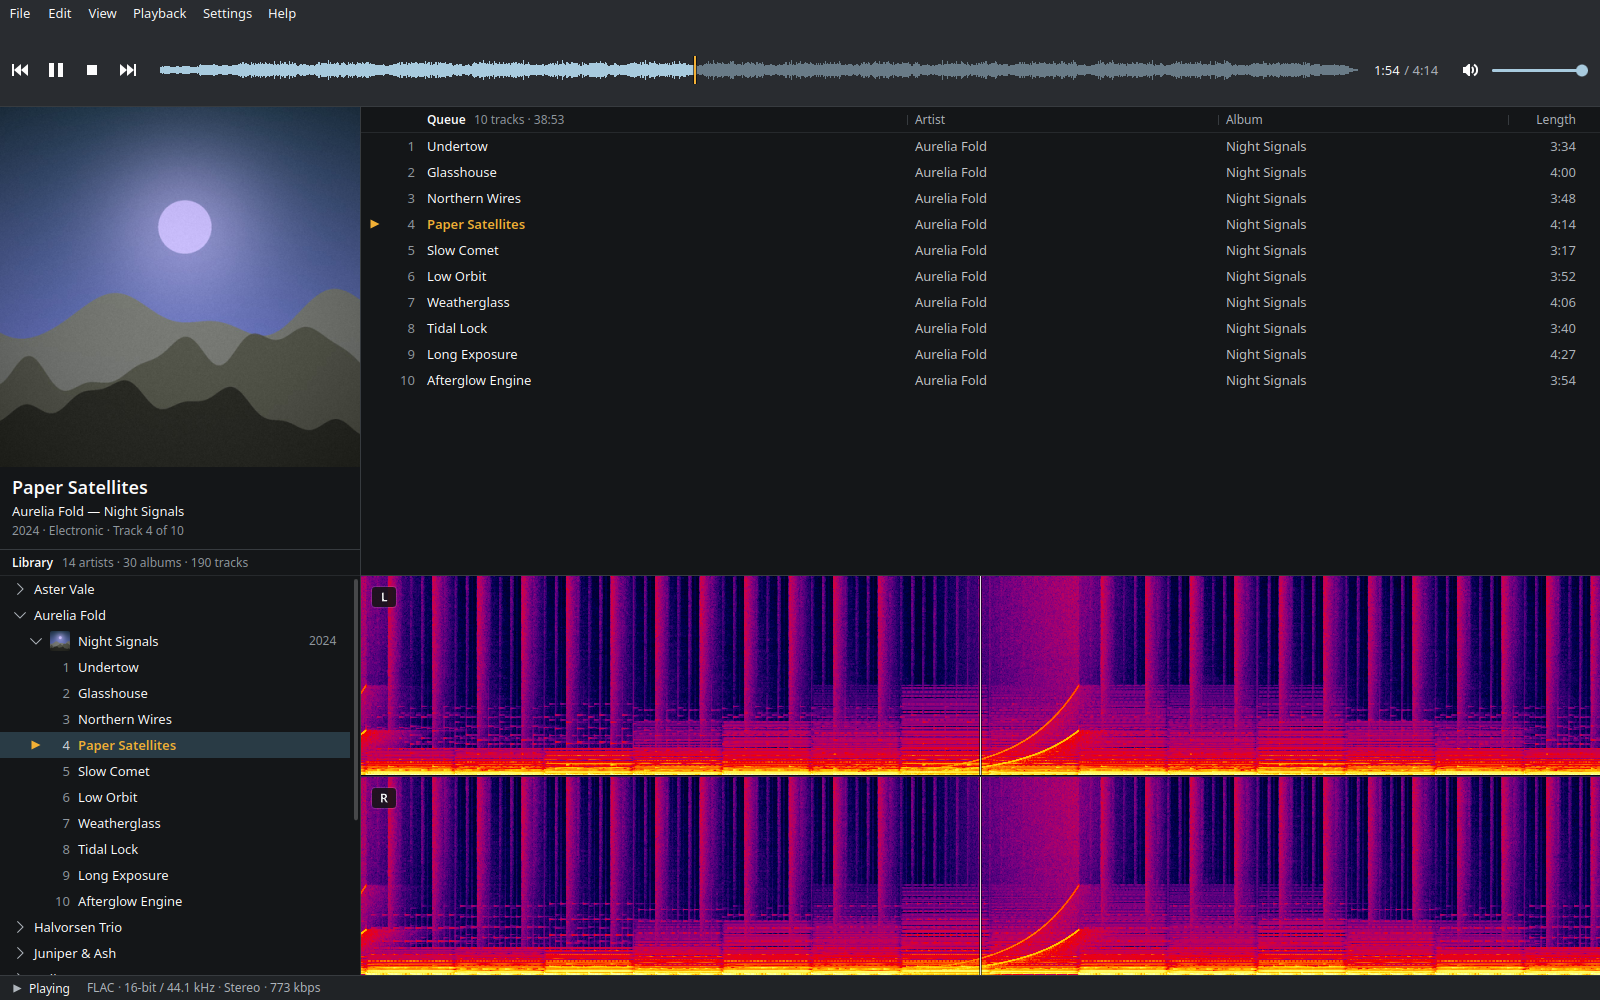
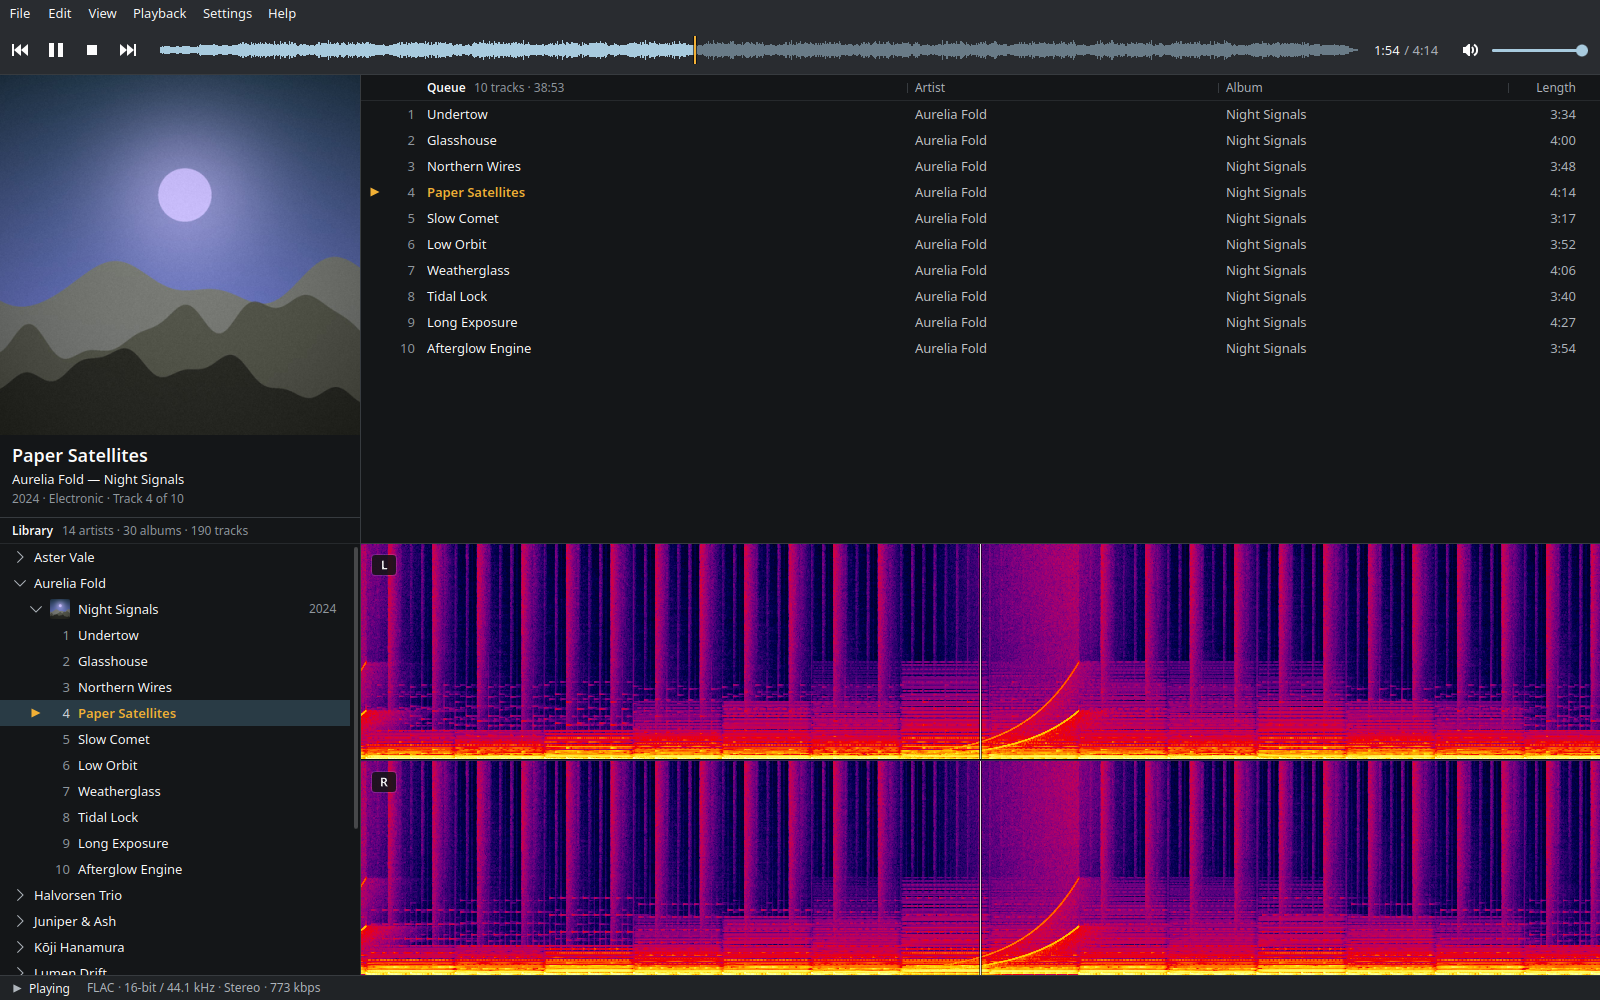
docs: keep transient states out of the space at rest, and show the slimmer transport band
UI_DESIGN gets the rule the band broke: a hover readout, tooltip or other
popup opens over space that already exists, and reserves none at rest. The
README and AppStream screenshots that show the band are taken again.

Part of #784.

Changed region(s): [[0.0, 0.031, 1.0, 0.992], [0.9375, 0.031, 1.0, 0.372]]

diff --git a/docs/UI_DESIGN.md b/docs/UI_DESIGN.md
@@ -148,6 +148,7 @@ Every surface must hold up at 24 pt as well as at 10 pt. One rule covers dialogs
 
 ## States
 
+- **A transient state doesn't reserve permanent space.** A hover readout, a tooltip, a drag box or another popup opens over space that already exists; the window doesn't keep room for it at rest, where it spends nearly all its time. The transport's time box and tooltips open over the menu bar's row, so the band is just its row: 48 px at 10 pt. A lane reserved for them made the band 80 px (158 px at 24 pt), and room added under the row to balance that lane made it worse (#784). A fix that would grow a pane or band at rest to hold a transient state needs its trade-off argued first.
 - **Rest:** no fill. Flat tool buttons show their glyph only.
 - **Hover:** the hover tint for the surface (`hover`, `rowHover`, or `hoverOn(bg)`) fades in and out over `shortDuration`. On a viewer's strip and corner plate, hover is a wash of the plot's text colour: 14 % on dark (about 1.4:1), 12 % on light. At 6.5 %, hover looked the same as rest.
 - **Pressed:** `pressed` or `pressedOn(bg)`, a clear step past the hover. It shows on the first frame of the press, never faded in. A press that matches the hover reads as nothing.
@@ -233,6 +234,7 @@ Ideas that were tried and rejected, and why. Bring one back only if your change 
 |---|---|---|
 | Main window | banners or notices for routine events | the main window stays quiet: routine events go to the status bar; a dialog appears only when the user must act |
 | Transport | the window's own colour as its background | the bar read as part of the content; it uses Breeze's Header colours |
+| Transport band | a lane above the row reserved for the seek bar's time box and the tooltips, and room under the row to balance it | 80 px for a 48 px row at rest (158 px at 24 pt), for popups that show while hovering; they now open over the menu bar's row |
 | Seek bar | an accent or amber waveform fill | amber is reserved for "now" and the playhead |
 | Seek time readout | a box on the waveform; a readout under the bar | it hid the part being scrubbed to; under the bar, it hung over the queue's header |
 | Row hover (light) | a hover tint stronger than the selection | the hovered row looked more selected than the selected one |
